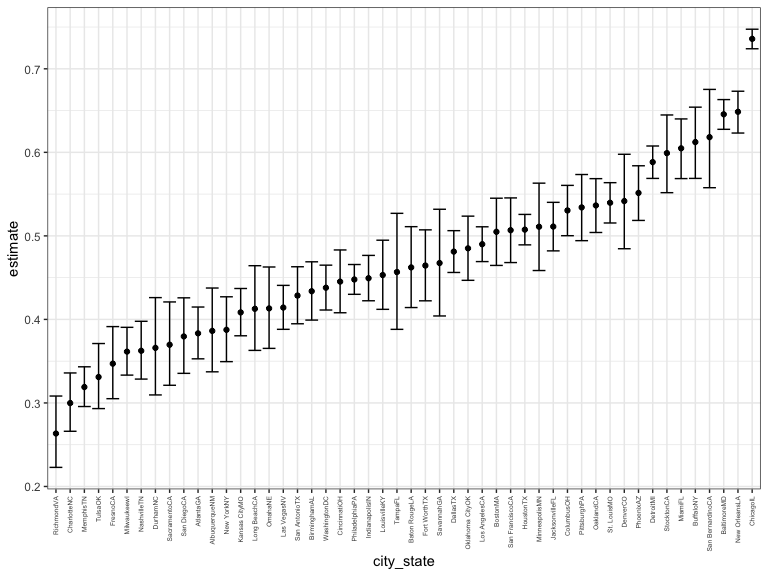
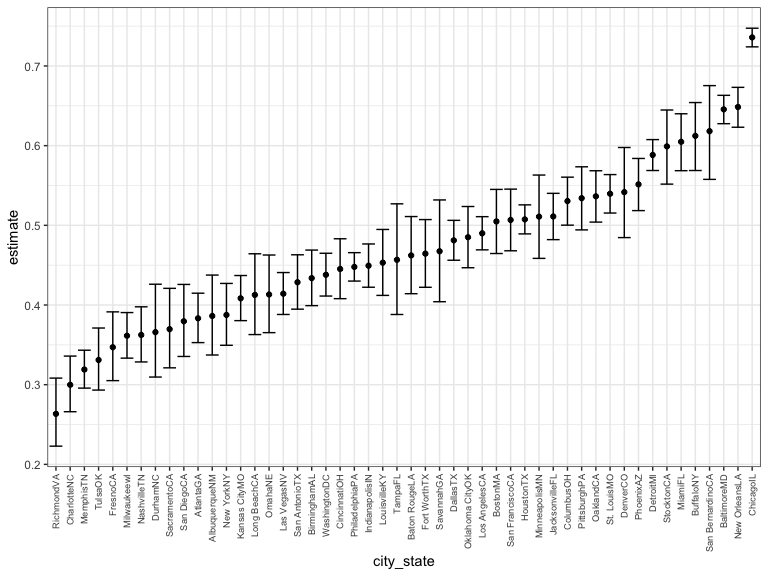
Problem 2 spaghetti plot formatting, started problem 3

diff --git a/p8105_hw5_jys2136.md b/p8105_hw5_jys2136.md
@@ -135,7 +135,7 @@ results_df %>%
   ggplot(aes(x = city_state, y = estimate)) +
   geom_point() +
   geom_errorbar(aes(ymin = conf.low, ymax = conf.high)) +  
-  theme(axis.text.x = element_text(size = 5, angle = 90, vjust = 0.5, hjust = 1))
+  theme(axis.text.x = element_text(size = 7, angle = 90, vjust = 0.5, hjust = 1))
 ```
 
 <img src="p8105_hw5_jys2136_files/figure-gfm/unnamed-chunk-1-1.png" width="90%" />
@@ -330,12 +330,15 @@ Spaghetti plot
 
 ``` r
 longstudy_df %>% 
+  mutate(txt_arm = recode(txt_arm, 
+                          "con" = "control",
+                          "exp" = "experimental")) %>%
   ggplot(aes(x = week, y = values, group = sub_id, color = sub_id)) + 
   geom_line() + 
   labs(
     title = "Subject Observations by Week",
     x = "Time (weeks)",
-    y = "Values"
+    y = "Observed Values"
   ) + 
   scale_color_hue(name = "Participant ID") +
   facet_grid(. ~ txt_arm)
@@ -344,6 +347,8 @@ longstudy_df %>%
 <img src="p8105_hw5_jys2136_files/figure-gfm/spaghetti_plot-1.png" width="90%" />
 
 **add analyses here**
+
+# Problem 3
 
 ``` r
 set.seed(10)
